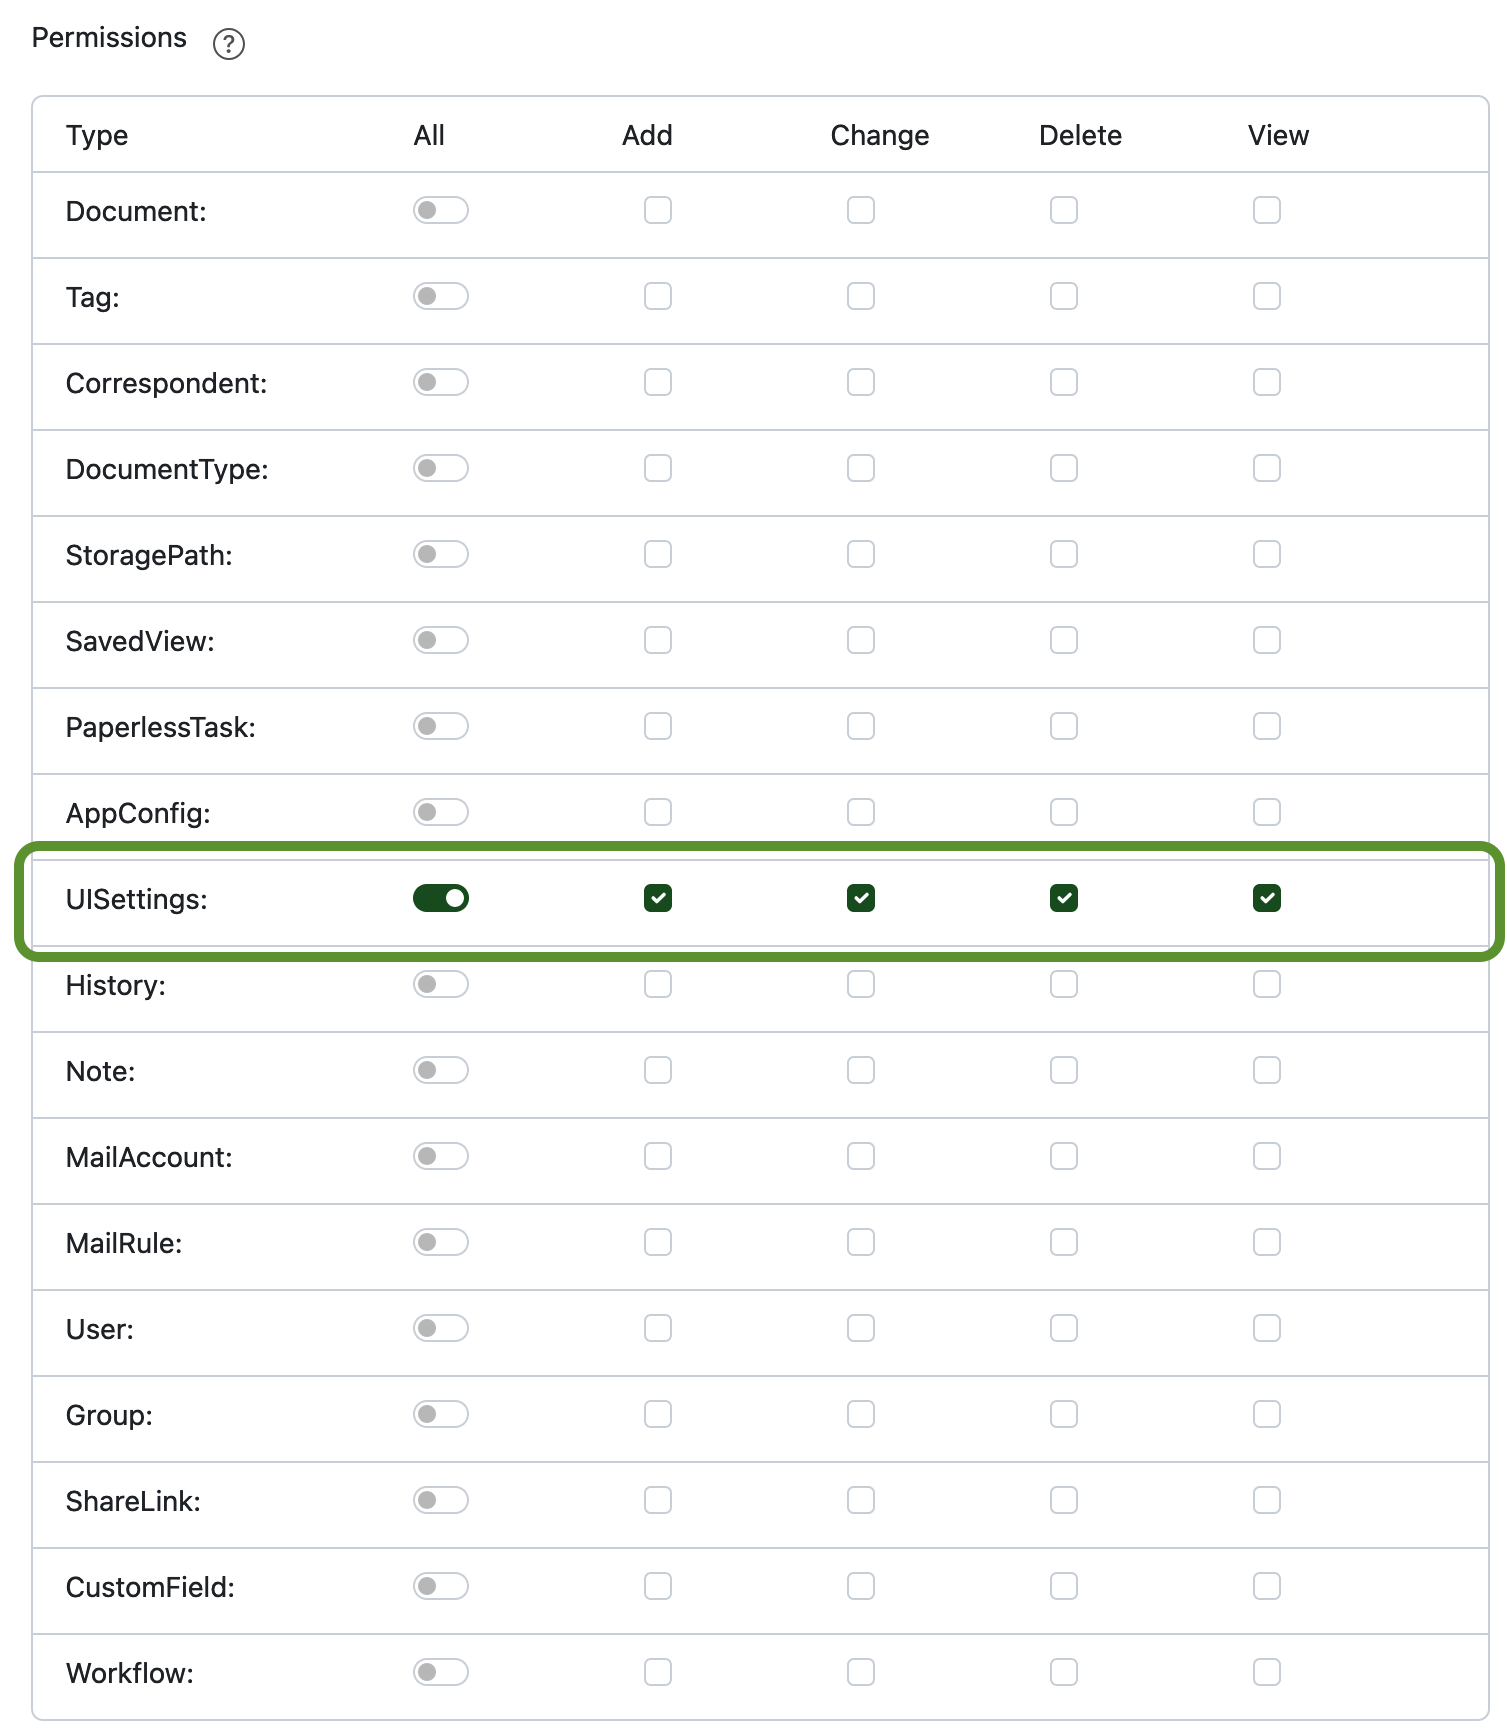
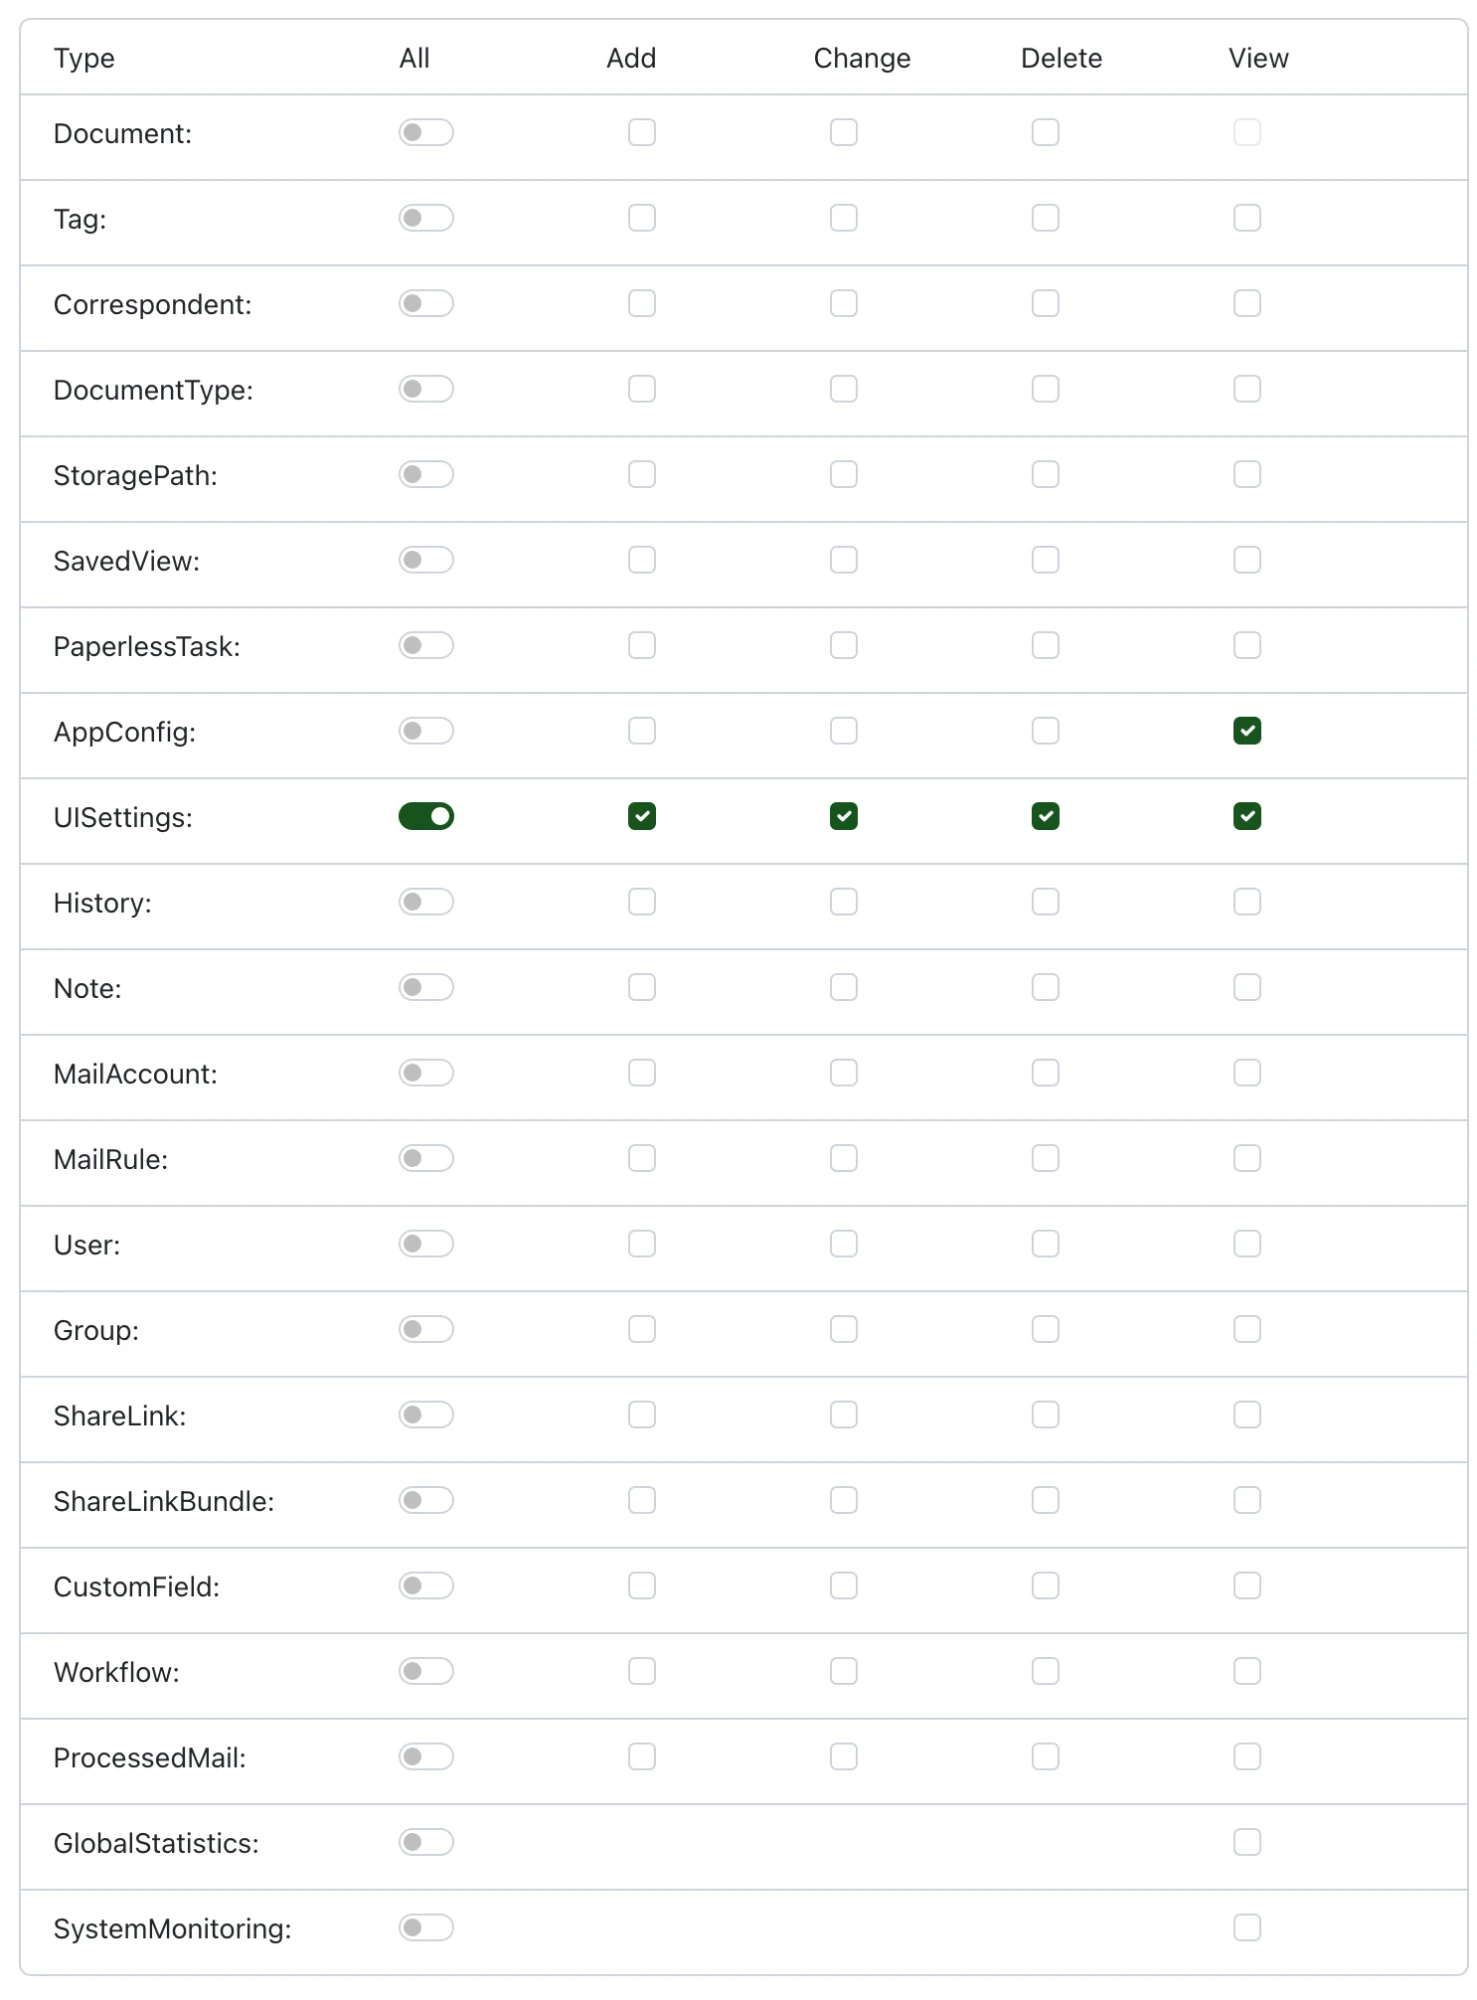
docs: show App Config view in minimum permissions screenshot

diff --git a/docs/common_issues/permissions.md b/docs/common_issues/permissions.md
@@ -7,7 +7,7 @@ that the user will not be able to access.
 For the app to function correctly, it needs to be able to query information about the logged in user itself,
 which includes the level of permissions the user has. Without this level of access, the functionality of the app cannot be provided.
 
-Please ensure that the user you're trying to log in with has at leas the *UI Settings* permissions set in the web interface under *Users & Groups*:
+Please ensure that the user you're trying to log in with has at least the *UI Settings* permissions set in the web interface under *Users & Groups*. The screenshot also shows *View* on *App Config*, which is recommended for Paperless-ngx 3.5 and later (see below):
 
 ![Screenshot of the permissions interface](minimum-permissions.png)
 
